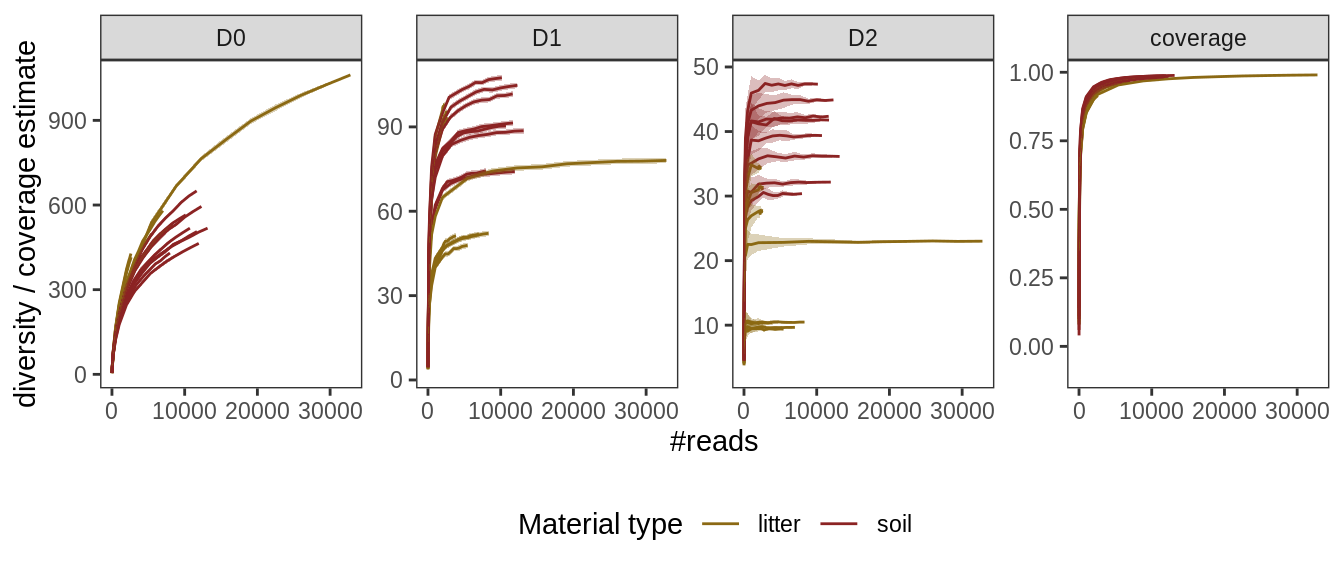
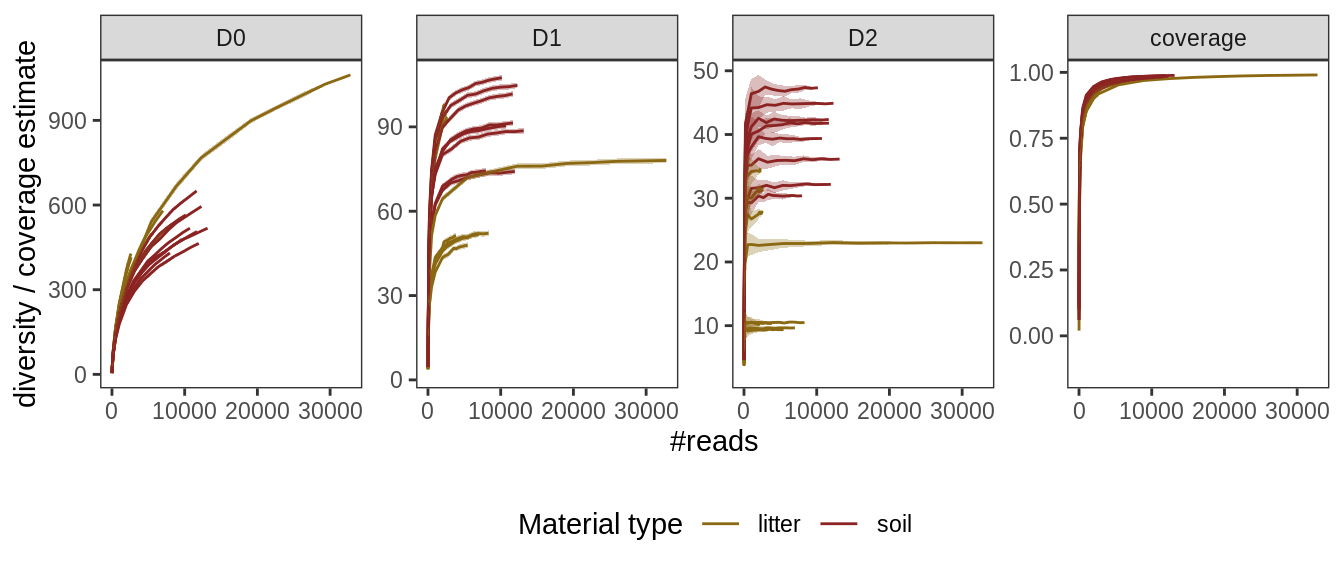
Deploy metabaRfactory/metabaR to github.com/metabaRfactory/metabaR.git:gh-pages

diff --git a/articles/metabaRF-vignette.html b/articles/metabaRF-vignette.html
@@ -90,7 +90,7 @@
             <address class="author_afil">
       Evolution et Diversité Biologique (EDB UMR5174), Université Toulouse 3 Paul Sabatier, CNRS, IRD - Toulouse, France.<br><h4 class="author">Clément Lionnet, Frédéric Boyer</h4>
             <address class="author_afil">
-      Univ. Grenoble Alpes, CNRS, Univ. Savoie Mont Blanc, LECA, Laboratoire d’Ecologie Alpine, F-38000 Grenoble, France.<br><h4 class="date">2020-09-03</h4>
+      Univ. Grenoble Alpes, CNRS, Univ. Savoie Mont Blanc, LECA, Laboratoire d’Ecologie Alpine, F-38000 Grenoble, France.<br><h4 class="date">2020-09-04</h4>
       
       <small class="dont-index">Source: <a href="https://github.com/metabaRfactory/metabaR/blob/master/vignettes/metabaRF-vignette.Rmd"><code>vignettes/metabaRF-vignette.Rmd</code></a></small>
       <div class="hidden name"><code>metabaRF-vignette.Rmd</code></div>
@@ -382,19 +382,19 @@ These are the value of <span class="math inline">\(q\)</span> for which <code>me
 <div class="sourceCode" id="cb15"><html><body><pre class="r"><span class="no">soil_euk_h20.raref</span> <span class="kw">=</span> <span class="fu"><a href="https://rdrr.io/pkg/metabaR/man/hill_rarefaction.html">hill_rarefaction</a></span>(<span class="no">soil_euk_h20</span>, <span class="kw">nboot</span> <span class="kw">=</span> <span class="fl">20</span>, <span class="kw">nsteps</span> <span class="kw">=</span> <span class="fl">10</span>)
 <span class="fu"><a href="https://rdrr.io/r/utils/head.html">head</a></span>(<span class="no">soil_euk_h20.raref</span>$<span class="no">hill_table</span>)
 <span class="co">#&gt;      pcr_id reads     D0     D0.sd        D1    D1.sd        D2     D2.sd</span>
-<span class="co">#&gt; 1 H20-As_r1     5   4.80 0.4103913  4.730288 1.120511  4.714286 0.5862733</span>
-<span class="co">#&gt; 2 H20-As_r1    10   8.90 0.7181848  8.496274 1.121372  8.130952 1.2667307</span>
-<span class="co">#&gt; 3 H20-As_r1   100  52.45 2.9105073 37.717045 1.106073 26.600704 4.7372504</span>
-<span class="co">#&gt; 4 H20-As_r1   200  82.60 5.9240811 50.587588 1.095104 31.261488 3.0589161</span>
-<span class="co">#&gt; 5 H20-As_r1   500 137.50 8.1789203 64.365989 1.080871 34.790168 3.0742931</span>
-<span class="co">#&gt; 6 H20-As_r1  1000 199.40 8.1006822 72.093617 1.052481 35.087305 1.8389677</span>
+<span class="co">#&gt; 1 H20-As_r1     5   4.75 0.4442617  4.665165 1.131083  4.642857 0.6346595</span>
+<span class="co">#&gt; 2 H20-As_r1    10   9.10 0.7181848  8.758020 1.119784  8.461310 1.2727338</span>
+<span class="co">#&gt; 3 H20-As_r1   100  54.00 3.6706517 39.766243 1.112229 28.714982 4.8333590</span>
+<span class="co">#&gt; 4 H20-As_r1   200  81.85 5.9140778 50.914585 1.097750 32.461940 3.3808749</span>
+<span class="co">#&gt; 5 H20-As_r1   500 141.35 6.8922153 65.946749 1.063985 35.161015 2.5447496</span>
+<span class="co">#&gt; 6 H20-As_r1  1000 203.90 7.7180581 73.117568 1.041604 35.183691 1.5294202</span>
 <span class="co">#&gt;   coverage coverage.sd</span>
-<span class="co">#&gt; 1  0.08000 0.164156536</span>
-<span class="co">#&gt; 2  0.20000 0.121395396</span>
-<span class="co">#&gt; 3  0.64550 0.039930861</span>
-<span class="co">#&gt; 4  0.74225 0.035149118</span>
-<span class="co">#&gt; 5  0.84690 0.016084972</span>
-<span class="co">#&gt; 6  0.89810 0.007859958</span></pre></body></html></div>
+<span class="co">#&gt; 1   0.1000 0.177704663</span>
+<span class="co">#&gt; 2   0.1650 0.122581874</span>
+<span class="co">#&gt; 3   0.6320 0.044081265</span>
+<span class="co">#&gt; 4   0.7465 0.032811263</span>
+<span class="co">#&gt; 5   0.8392 0.015167833</span>
+<span class="co">#&gt; 6   0.8928 0.008953682</span></pre></body></html></div>
 <p>The <code>hill_rarefaction</code> function produces an object with several elements. The most relevant one is the <code>hill_table</code> a table indicating the <code>pcr_id</code>, the sequencing depth at which the <em>pcr</em> was resampled, and the corresponding diversity / coverage indices. The output of <code>hill_rarefaction</code> can be used to draw rarefaction curves.</p>
 <div class="sourceCode" id="cb16"><html><body><pre class="r"><span class="fu"><a href="https://rdrr.io/pkg/metabaR/man/hill_rarefaction.html">gghill_rarefaction</a></span>(<span class="no">soil_euk_h20.raref</span>)</pre></body></html></div>
 <p><img src="metabaRF-vignette_files/figure-html/gghill-1.png" width="672" style="display: block; margin: auto;"></p>

diff --git a/authors.html b/authors.html
@@ -6,7 +6,7 @@
 <meta http-equiv="X-UA-Compatible" content="IE=edge">
 <meta name="viewport" content="width=device-width, initial-scale=1.0">
 
-<title>Authors • metabaR</title>
+<title>Citation and Authors • metabaR</title>
 
 
 <!-- jquery -->
@@ -39,7 +39,7 @@
 
 
 
-<meta property="og:title" content="Authors" />
+<meta property="og:title" content="Citation and Authors" />
 
 
 
@@ -58,7 +58,7 @@
   </head>
 
   <body data-spy="scroll" data-target="#toc">
-    <div class="container template-authors">
+    <div class="container template-citation-authors">
       <header>
       <div class="navbar navbar-default navbar-fixed-top" role="navigation">
   <div class="container">
@@ -121,6 +121,22 @@
 
 <div class="row">
   <div class="contents col-md-9">
+    <div class="page-header">
+      <h1>Citation</h1>
+      <small class="dont-index">Source: <a href='https://github.com/metabaRfactory/metabaR/blob/master/inst/CITATION'><code>inst/CITATION</code></a></small>
+    </div>
+
+    <p>Lucie Zinger, Clément Lionnet, Anne-Sophie Benoiston, Julian Donald, Céline Mercier, Frédéric Boyer (2020).
+metabaR : an R package for the evaluation and improvement of DNA metabarcoding data quality. bioRxiv; doi: https://doi.org/10.1101/2020.08.28.271817</p>
+    <pre>@Article{,
+  title = {metabaR : an R package for the evaluation and improvement of DNA metabarcoding data quality},
+  author = {Lucie Zinger and Clément Lionnet and Anne-Sophie Benoiston and Julian Donald and Céline Mercier and Frédéric Boyer},
+  journal = {bioRxiv},
+  year = {2020},
+  url = {https://www.biorxiv.org/content/10.1101/2020.08.28.271817v1},
+  doi = {10.1101/2020.08.28.271817},
+}</pre>
+
     <div class="page-header">
       <h1>Authors</h1>
     </div>

diff --git a/index.html b/index.html
@@ -150,6 +150,12 @@
 <li>GPL (&gt;= 2)</li>
 </ul>
 </div>
+<div class="citation">
+<h2>Citation</h2>
+<ul class="list-unstyled">
+<li><a href="authors.html">Citing metabaR</a></li>
+</ul>
+</div>
 <div class="developers">
 <h2>Developers</h2>
 <ul class="list-unstyled">
